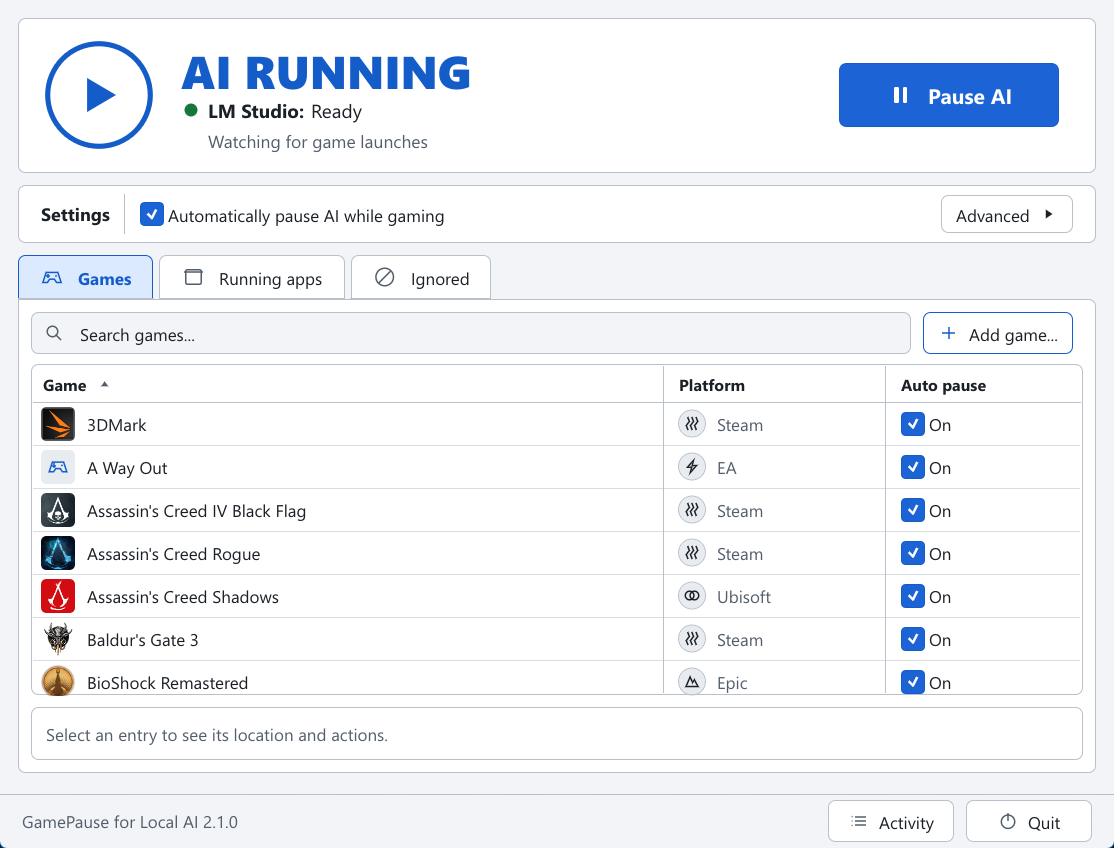
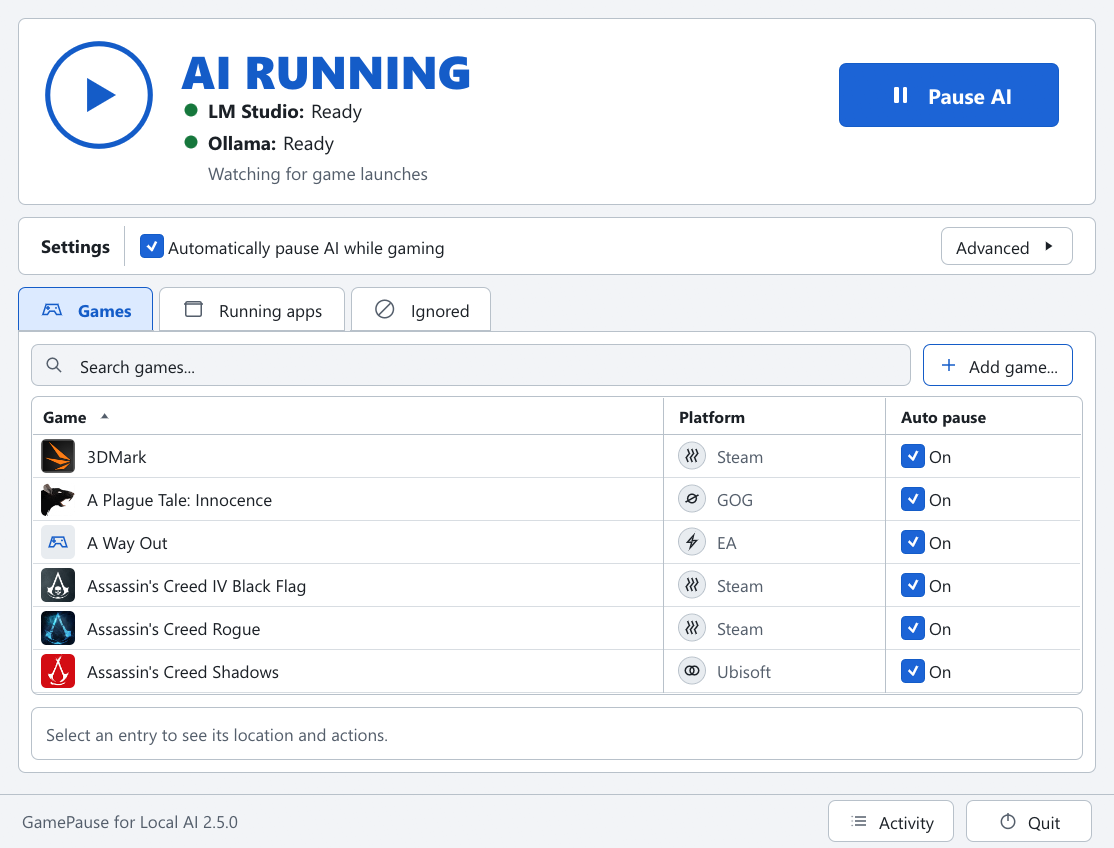
Retake the README screenshots and recording; 2.5.0

diff --git a/CHANGELOG.md b/CHANGELOG.md
@@ -1,5 +1,12 @@
 # Changelog
 
+## 2.5.0 — 2026-10-07
+
+- No change in behavior. The source was reorganized into smaller files, and a test that failed by chance about once in thirty runs was fixed.
+- README screenshots and the recording were retaken with this version.
+
+Checked on one Windows 11 PC with a real game: LM Studio (one 27B model) and Ollama 0.40.0 (one small model) paused and restored, the Ollama model with the keep-alive time it had left. Not yet tested: sleep and wake, uninstalling, a real Ollama reload slower than ten seconds, real llama.cpp or KoboldCpp, the Scoop manifest, and Windows 10.
+
 ## 2.3.0 — 2026-10-07
 
 - GOG games are found automatically, whether they were installed through GOG Galaxy or with a GOG offline installer. DLC is not listed as a game of its own.
